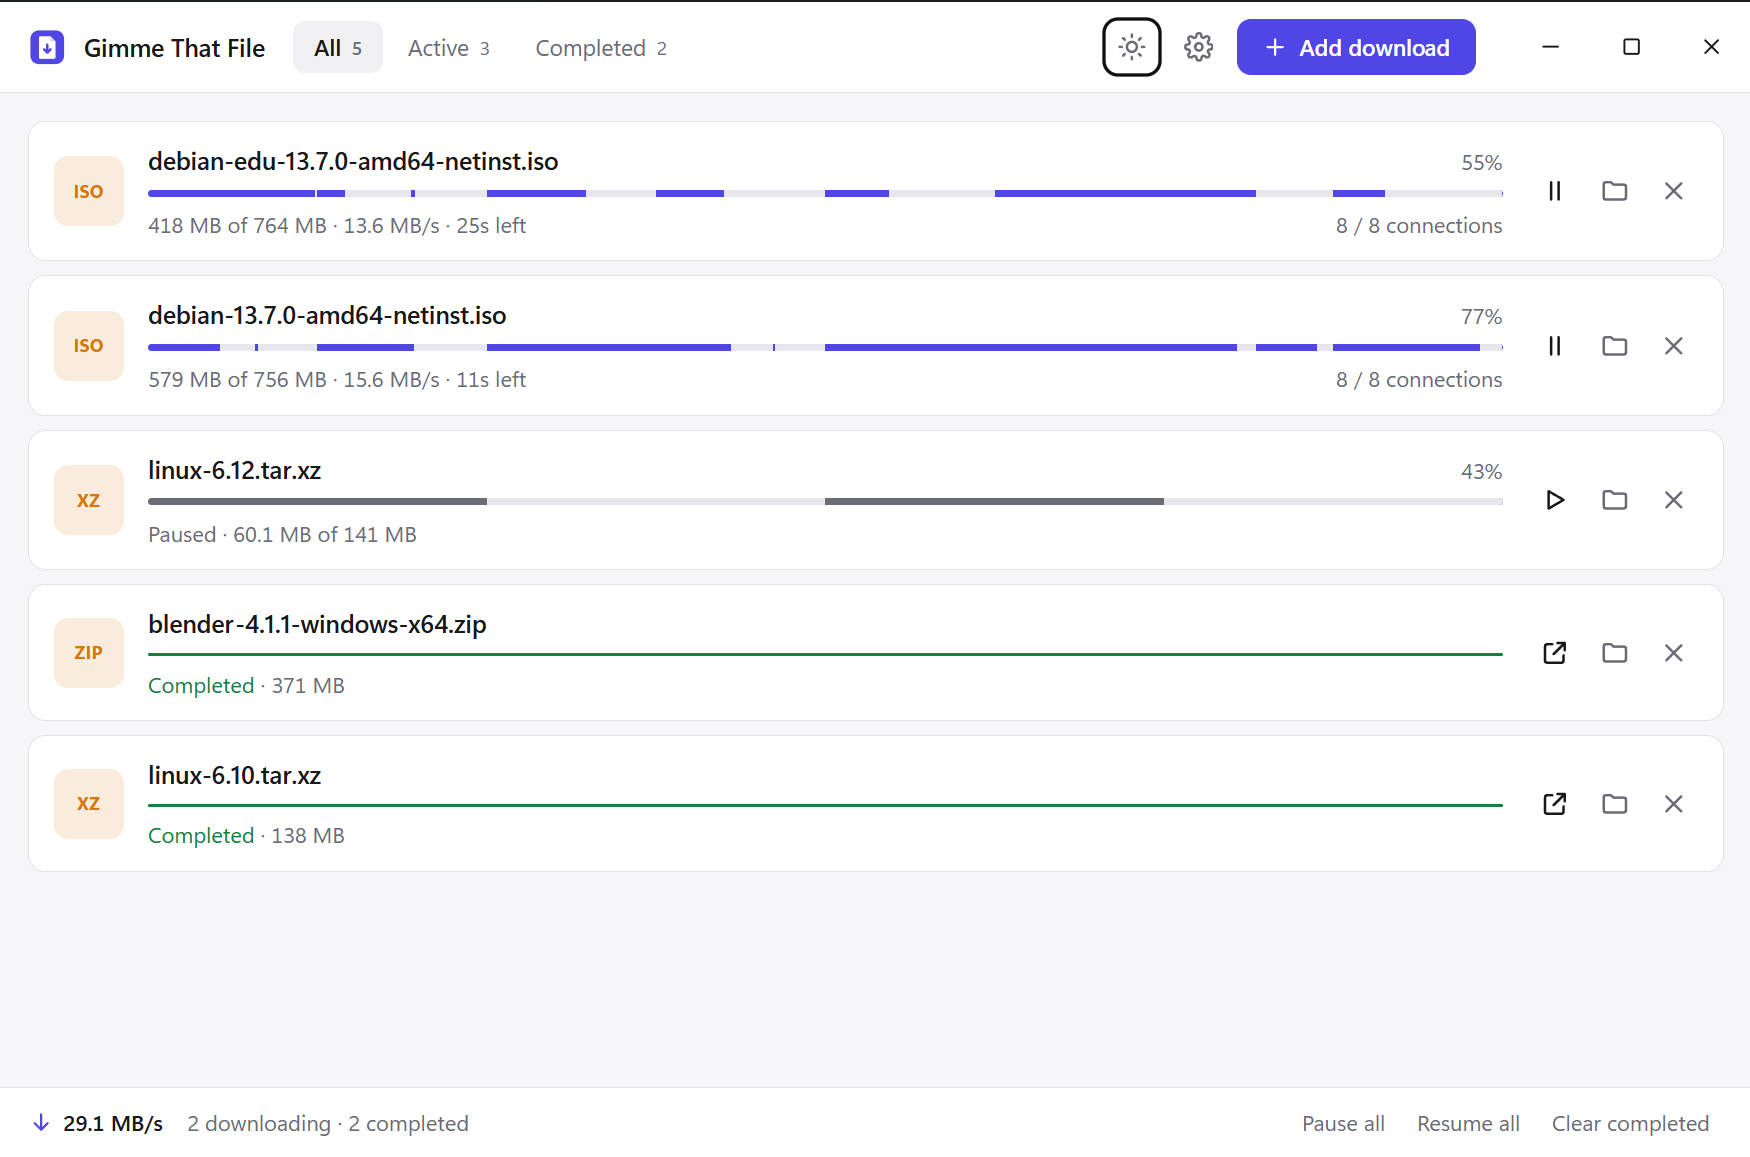
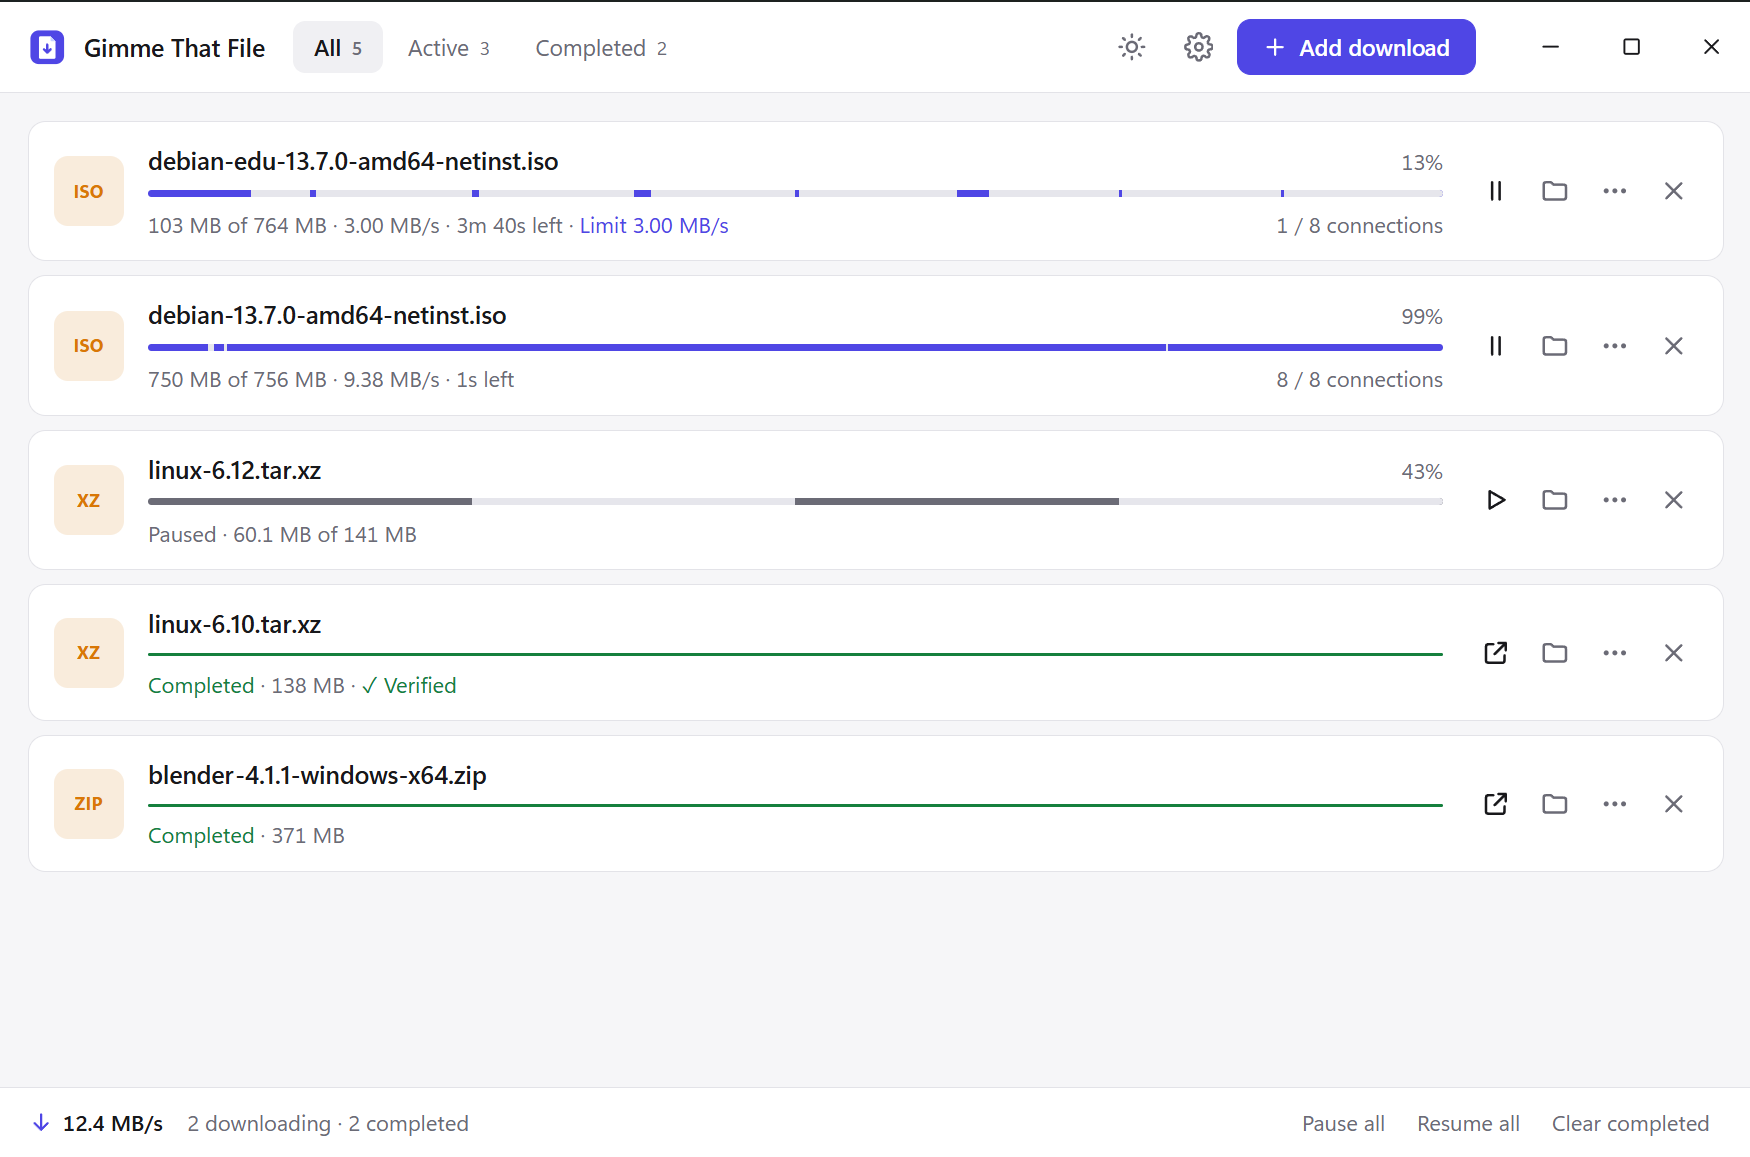
Pre-release cleanup
- Delete captured cookies/headers from the download list once a download
  completes (they were only kept for resuming); test + docs
- Fold the changelog into a single first-release section
- New README screenshots (speed limit, verified checksum, row menu)
- cargo-deny: licence allow-list, advisories, sources; Dependencies CI job
- Social preview image for the repo
- TODO: launch-day checklist

diff --git a/crates/engine/src/manager.rs b/crates/engine/src/manager.rs
@@ -712,6 +712,9 @@ impl Inner {
                             e.rec.status = Status::Completed;
                             e.rec.error = None;
                             e.rec.segments.clear();
+                            // Captured cookies/headers were only kept so the
+                            // download could resume; don't keep them on disk.
+                            e.rec.headers.clear();
                             if let Some(t) = e.rec.total {
                                 e.rec.downloaded = t;
                             }

diff --git a/crates/engine/tests/headers.rs b/crates/engine/tests/headers.rs
@@ -303,4 +303,10 @@ async fn headers_survive_restart() {
     let snap = wait_done(&m, id).await;
     let got = std::fs::read(tmp.path().join("out").join(snap.file_name.unwrap())).unwrap();
     assert_eq!(got, *body);
+
+    // Once complete, the cookies are no longer needed and are removed from
+    // the saved download list.
+    m.shutdown();
+    let saved = std::fs::read_to_string(tmp.path().join("state.json")).unwrap();
+    assert!(!saved.contains("k=v"), "cookies cleared after completion");
 }

diff --git a/CHANGELOG.md b/CHANGELOG.md
@@ -6,7 +6,35 @@ adheres to [Semantic Versioning](https://semver.org/spec/v2.0.0.html).
 
 ## [Unreleased]
 
-### Added
+First public release (will be tagged `v0.1.0`).
+
+### Downloads
+
+- Multi-connection downloads with dynamic segmentation (work stealing), so all
+  connections stay busy until the end. Near the end of a download, idle
+  connections split smaller pieces (down to 256 KiB) off slow ones.
+- Connection reuse: a connection that finishes its segment continues into the
+  next idle one instead of reconnecting.
+- Connection count that adapts to the server: slow start (4 connections, then
+  one more every 300 ms), backing off on `429`/`503` and recovering later, and
+  as few connections as needed while a speed limit is the bottleneck.
+  Reducing connections based on measured speed alone is experimental and off
+  by default (`GTF_ADAPTIVE_DOWN=1`; see `docs/BENCHMARKS.md`).
+- Pause and resume, which survive app restarts and crashes. A changed file
+  (different size or ETag) is detected and restarted.
+- Single-connection fallback for servers without range support.
+- Download queue with a configurable number of simultaneous downloads.
+- Speed limits: one for all downloads together (Settings → Speed) and one per
+  download (in the add dialog under "More options", or later from the row's
+  ⋯ menu). Both apply immediately to running downloads.
+- Optional SHA-256 checksum in the add dialog, verified after the download
+  finishes. A mismatch is flagged in red; the file is kept.
+- Scheduler: only download during set hours on chosen days, including windows
+  that cross midnight. Downloads outside the window show "Waiting for
+  schedule", keep their progress and continue automatically; "Start now" runs
+  a single download anyway.
+
+### Browser integration
 
 - Browser extension for Chrome and Edge (`extension/`, load unpacked for now)
   that sends browser downloads to the app, with a toolbar switch, connection
@@ -15,71 +43,30 @@ adheres to [Semantic Versioning](https://semver.org/spec/v2.0.0.html).
   If the app isn't running or capture is off, the browser downloads the file
   itself.
 - The app receives those downloads on `127.0.0.1:47811`, answering only
-  browser extensions. **Settings → Browser** turns this off. A small
-  notification shows what was added, without bringing the window forward.
-- Per-download request headers: cookies, referrer and User-Agent from the
-  browser are sent with every request of that download (probe and all
-  connections), so downloads behind a login work. They are stored in the local
-  download list so resuming works too.
-- Notifications when a download finishes, fails, or fails its checksum
-  (Settings → Behavior). Clicking one shows the window.
-- Setting: the minimize button hides the window to the tray.
-- Setting: start with Windows, hidden in the tray (`--hidden`).
-- Optional SHA-256 checksum in the add dialog ("More options"), verified after
-  the download finishes. A mismatch is flagged in red; the file is kept.
-- Scheduler: only download during set hours on chosen days, including
-  windows that cross midnight. Downloads outside the window show "Waiting for
-  schedule", keep their progress, and continue automatically; "Start now"
-  runs a single download anyway.
-- Speed limits: one for all downloads together (Settings → Speed) and one per
-  download (in the add dialog under "More options", or later from the row's
-  ⋯ menu). Both apply immediately to running downloads, also without range
-  support, and the row shows when a download is limited.
-- `examples/bench.rs` can simulate a shared line with congestion
-  (`-- <per_conn> <file_MB> <line_MBps> <penalty>`), and `BENCH_CONNS=1,8`
-  runs only some connection counts.
+  browser extensions. **Settings → Browser** turns this off.
+- Cookies, referrer and User-Agent from the browser are sent with every
+  request of that download, so downloads behind a login work. They are kept in
+  the local download list until the download completes (so resuming works)
+  and then deleted.
 
-- Performance checks in CI: every pull request is compared with `main` on
-  six simulated server types (fails if slower by more than 3 standard errors
-  and 5%), plus an informational run over an emulated long-distance network
-  and a manual/monthly real-world benchmark (`scripts/perf_ab.sh`,
-  `scripts/realworld.sh`, `examples/perf.rs`).
+### App
 
-### Changed
-
-- Connection count: while a speed limit is the bottleneck, the engine uses as
-  few connections as still reach it. Reducing connections based on measured
-  speed alone is experimental and off by default (`GTF_ADAPTIVE_DOWN=1`): on
-  a real CDN its 1-second measurements were too noisy and it cut speed by
-  more than half (see `docs/BENCHMARKS.md`).
-- Near the end of a download, idle connections may split segments down to
-  256 KiB (instead of 1 MiB) so the last megabytes don't wait on one slow
-  connection.
-- A connection stops reading as soon as it reaches the end of its segment
-  instead of buffering data that would be thrown away.
-
-## [0.1.0] - 2026-11-08
-
-First release.
-
-### Added
-
-- Multi-connection downloads with dynamic segmentation (work stealing), so all
-  connections stay busy until the end.
-- Connection reuse: a connection that finishes its segment continues into the
-  next idle one instead of reconnecting.
-- Adaptive connection count: slow start, backing off on `429`/`503`, and
-  recovering later.
-- Pause and resume, which survive app restarts and crashes. A changed file
-  (different size or ETag) is detected and restarted.
-- Download queue with a configurable number of simultaneous downloads.
-- Single-connection fallback for servers without range support.
+- Clean, flat UI with a custom title bar and System/Light/Dark themes: paste
+  links anywhere, drag links onto the window, per-connection segment map,
+  speed and time left.
 - Tray icon: closing the window hides it and downloads keep running; quit from
   the tray menu. Launching the app again shows the running window.
-- Clean, flat UI with a custom title bar and System/Light/Dark themes: paste links anywhere, drag links onto the window,
-  per-connection segment map, speed and time left.
+- Settings: minimize to tray, start with Windows (hidden in the tray), and
+  notifications when a download finishes, fails or fails its checksum.
+
+### For contributors
+
+- Performance checks in CI: every pull request is compared with `main` on six
+  simulated server types and fails if it is slower by more than 3 standard
+  errors and 5%, plus an informational run over an emulated long-distance
+  network and a manual/monthly real-world benchmark (`scripts/perf_ab.sh`,
+  `scripts/realworld.sh`, `examples/perf.rs`, `examples/bench.rs`).
 - `GIMMETHATFILE_DATA_DIR` to use a separate download list, and `GTF_DEBUG=1`
   for engine logs.
 
-[Unreleased]: https://github.com/ItsBlqz/gimmethatfile/compare/v0.1.0...HEAD
-[0.1.0]: https://github.com/ItsBlqz/gimmethatfile/releases/tag/v0.1.0
+[Unreleased]: https://github.com/ItsBlqz/gimmethatfile/commits/main

diff --git a/TODO.md b/TODO.md
@@ -22,8 +22,6 @@ items can also get an issue.
       connections opened near the end (smaller tail splits), each going
       through Debian's redirect. Could also resolve the redirect once and
       reuse the final URL for segment requests.
-- [ ] **Clear stored cookies** from a download once it completes (they are kept
-      in the local download list so resume works).
 - [ ] **Dev instance next to the installed app**: let a debug build with
       `GIMMETHATFILE_DATA_DIR` set skip the single-instance check (and use
       another receiver port), so tests don't collide with a running copy.
@@ -41,7 +39,10 @@ items can also get an issue.
       source projects, which means the repo has to be public).
 - [ ] macOS and Linux release builds.
 - [ ] Publish: make the repo public, run `scripts/protect-main.sh`, enable
-      private vulnerability reporting, tag `v0.1.0`.
+      private vulnerability reporting (also used for private Code of Conduct
+      reports), upload `docs/social-preview.png` (Settings → Social preview),
+      rename `[Unreleased]` in CHANGELOG.md to `[0.1.0] - <date>`, tag
+      `v0.1.0`, and publish the draft release.
 
 ## Done
 
@@ -49,6 +50,10 @@ items can also get an issue.
 - [x] Connection controller: slow start, backing off on 429/503, and few
       connections while a speed limit binds (throughput-based reductions are
       experimental, see Next)
+- [x] Captured cookies are deleted when a download completes
+- [x] Pre-release cleanup: changelog folded into the first release, new
+      screenshots, cargo-deny (licences/advisories) in CI, history checked for
+      secrets, social preview image (docs/social-preview.png)
 - [x] Code of Conduct reporting via GitHub's Report content / private reports
       (no email)
 - [x] Final benchmark on an idle machine plus an "under load" real-life run

diff --git a/README.md b/README.md
@@ -13,7 +13,7 @@ Paste a link, pick a folder, done.
 
 <picture>
   <source media="(prefers-color-scheme: light)" srcset="docs/screenshot-light.png" />
-  <img src="docs/screenshot.png" width="820" alt="Gimme That File showing two downloads in progress with 8 connections each, a paused download and two completed ones" />
+  <img src="docs/screenshot.png" width="820" alt="Gimme That File showing two downloads in progress (one held to a 3 MB/s speed limit), a paused download, and two completed ones, one with a verified checksum" />
 </picture>
 
 </div>
@@ -80,8 +80,9 @@ Edge and hands them to the app. Until it is in the stores, install it with
   off **Settings → Browser → Accept downloads sent by the browser extension**,
   the browser downloads the file as usual. Nothing gets lost.
 - Downloads that need a login work: the extension passes along the site's
-  cookies, the referring page and the file name. The app stores them in its
-  local download list (`downloads.json`) so the download can be resumed later.
+  cookies, the referring page and the file name. The app keeps them in its
+  local download list (`downloads.json`) only until the download completes,
+  so it can be resumed in the meantime.
 - Options for minimum size, file types and sites to skip; a toolbar switch; and
   **Download with Gimme That File** in the right-click menu on links.
 - The app listens on `127.0.0.1:47811` and only answers browser extensions, not

diff --git a/SECURITY.md b/SECURITY.md
@@ -60,8 +60,9 @@ the file's site (and then the browser's User-Agent) to the app. They are:
 - sent only with requests for that download; when a redirect leaves the site,
   `Cookie` and `Authorization` are dropped;
 - stored in plain text in the local download list (`downloads.json` in the
-  app's data folder) so a paused or interrupted download can resume. Removing a
-  download from the list removes them;
+  app's data folder) only while the download is unfinished, so a paused or
+  interrupted download can resume. They are deleted as soon as the download
+  completes, or when it is removed from the list;
 - never written to the `GTF_DEBUG` log (only header names are).
 
 Headers that would change how the app talks to the server (`Host`, `Range`,

diff --git a/CONTRIBUTING.md b/CONTRIBUTING.md
@@ -67,6 +67,9 @@ Also:
   same way, and show that the test fails without your fix.
 - If you change the browser extension or `app/src/browser.rs`, also run the
   extension tests (`npm test` in `extension/test`, see its README).
+- **Adding a dependency?** `cargo deny check` must pass (licences, known
+  vulnerabilities, sources; see `deny.toml`). CI runs it in the
+  **Dependencies** job.
 - **Keep the engine free of UI code.** Anything the UI needs goes through
   `Manager` and `Snapshot`.
 - **Update `CHANGELOG.md`** under `Unreleased` if users will notice the change.
